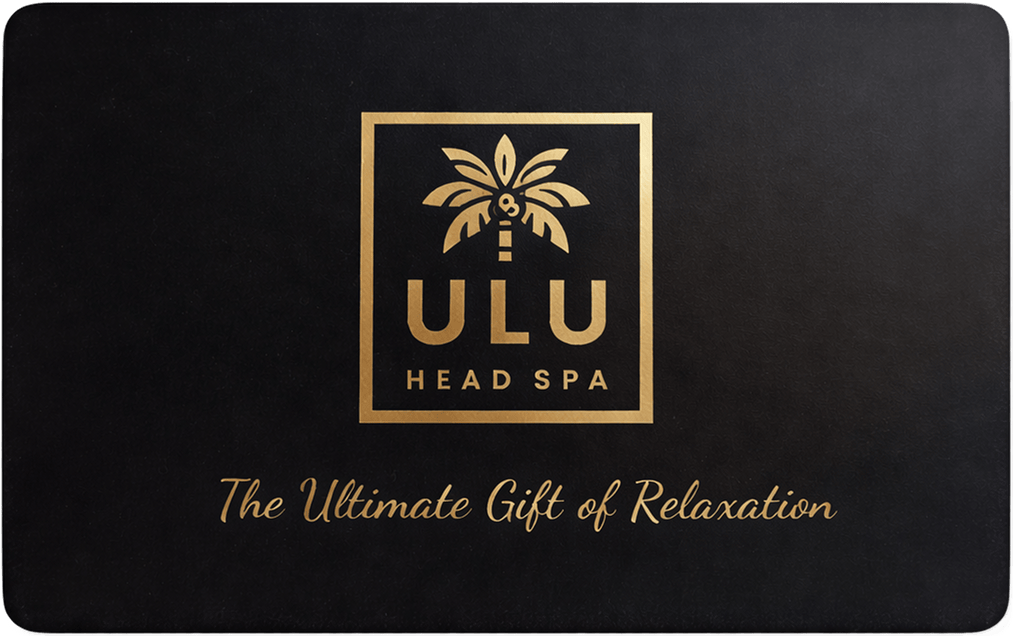
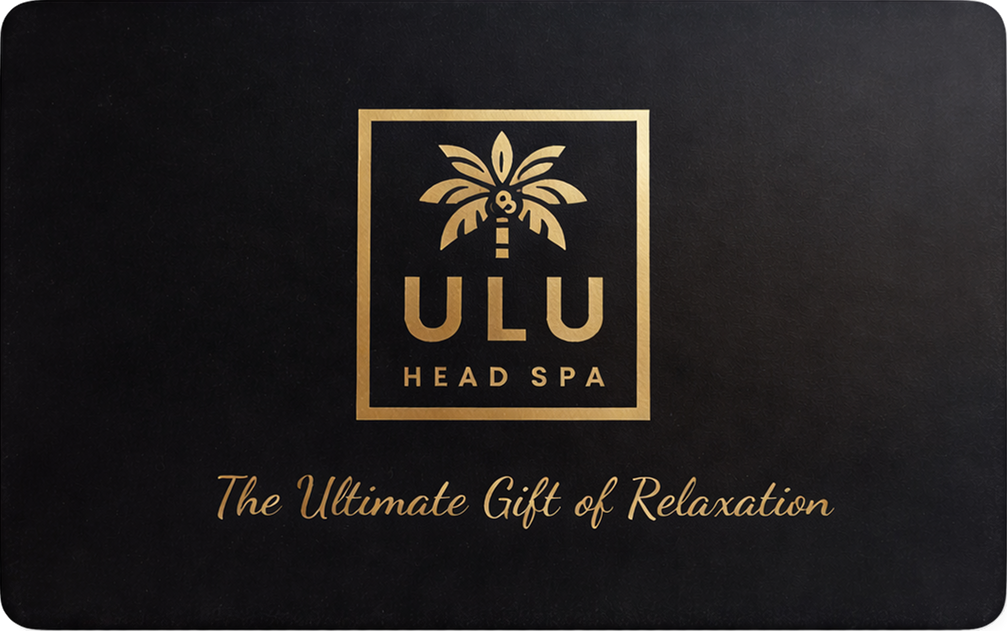
shimmer on card

diff --git a/app/gift-cards/page.tsx b/app/gift-cards/page.tsx
@@ -129,20 +129,22 @@ export default function GiftCardPage() {
                 the service that best supports their mind, body, and well-being.
               </p>
 
-              <a href={giftCardPurchaseUrl} target="_blank" rel="noopener noreferrer" onClick={() => trackGiftCardClick('gift_cards_hero')}>
-                <Button variant="luxury" size="lg" className="px-12 py-4 text-lg shadow-xl hover:shadow-2xl transform hover:-translate-y-1 transition-all duration-300">
-                  <GiftIcon className="h-6 w-6 mr-3" />
-                  Purchase Gift Card
-                </Button>
-              </a>
+              <div className="inline-flex flex-col items-center">
+                <a href={giftCardPurchaseUrl} target="_blank" rel="noopener noreferrer" onClick={() => trackGiftCardClick('gift_cards_hero')}>
+                  <Button variant="luxury" size="lg" className="px-12 py-4 text-lg shadow-xl hover:shadow-2xl transform hover:-translate-y-1 transition-all duration-300">
+                    <GiftIcon className="h-6 w-6 mr-3" />
+                    Purchase Gift Card
+                  </Button>
+                </a>
 
-              <p className="mt-4 font-montserrat text-sm text-spa-stone-500 text-center lg:text-left">
-                Redeeming?{' '}
-                <a href="tel:+18015287368" className="text-spa-gold-600 hover:text-spa-gold-700 font-medium">
-                  Call (801) 528-7368
-                </a>{' '}
-                to book
-              </p>
+                <p className="mt-4 font-montserrat text-sm text-spa-stone-500 text-center">
+                  Redeeming?{' '}
+                  <a href="tel:+18015287368" className="text-spa-gold-600 hover:text-spa-gold-700 font-medium">
+                    Call (801) 528-7368
+                  </a>{' '}
+                  to book
+                </p>
+              </div>
             </div>
 
             {/* Right: Badge + Gift Card Image */}

diff --git a/app/styles/animations.css b/app/styles/animations.css
@@ -1240,6 +1240,43 @@
     0 8px 32px rgba(0, 0, 0, 0.1);
 }
 
+/* Auto-shimmer on front face - synced with flip */
+.gift-card-face:not(.gift-card-back)::after {
+  content: '';
+  position: absolute;
+  inset: 0;
+  background: linear-gradient(
+    to right,
+    transparent,
+    rgba(255, 255, 255, 0.4),
+    transparent
+  );
+  transform: translateX(-100%) skewX(-12deg);
+  animation: cardShimmer 8s ease-in-out infinite;
+  pointer-events: none;
+  z-index: 10;
+}
+
+/* Shimmer keyframes - plays right after flip lands */
+@keyframes cardShimmer {
+  0%, 74% {
+    opacity: 0;
+    transform: translateX(-100%) skewX(-12deg);
+  }
+  75% {
+    opacity: 1;
+    transform: translateX(-100%) skewX(-12deg);
+  }
+  85% {
+    opacity: 1;
+    transform: translateX(100%) skewX(-12deg);
+  }
+  86%, 100% {
+    opacity: 0;
+    transform: translateX(100%) skewX(-12deg);
+  }
+}
+
 .gift-card-back {
   transform: rotateY(180deg);
 }
@@ -1323,5 +1360,10 @@
 
   .gift-card-3d {
     animation: none !important;
+  }
+
+  .gift-card-face:not(.gift-card-back)::after {
+    animation: none !important;
+    opacity: 0 !important;
   }
 }
